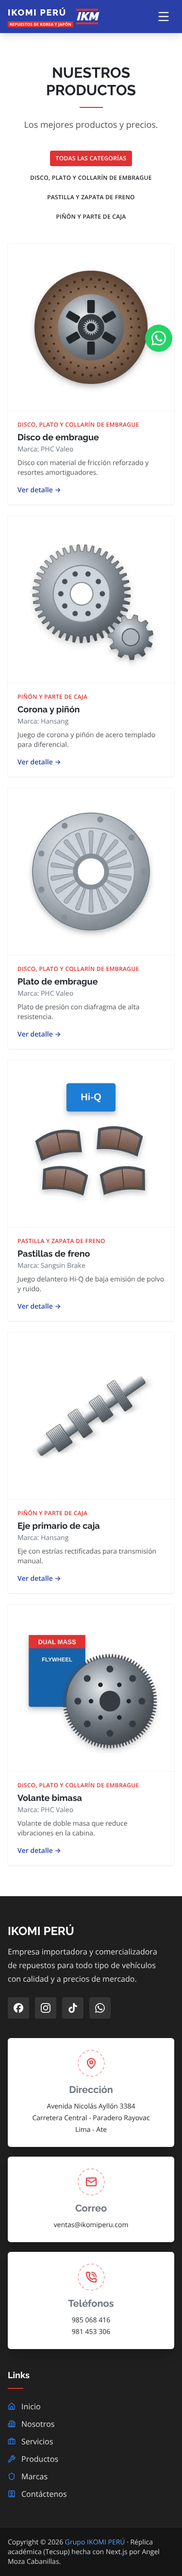
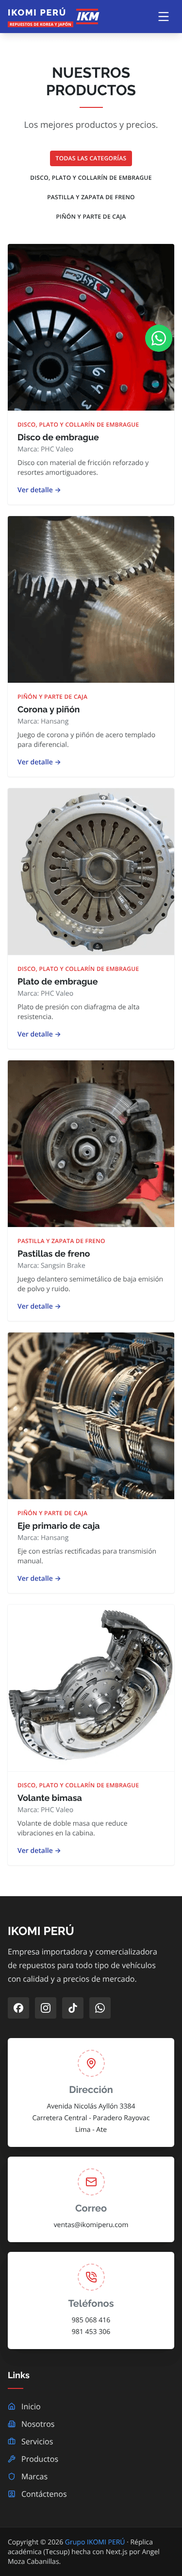
feat: fotos reales con licencia libre y creditos de imagenes

diff --git a/data/productos.ts b/data/productos.ts
@@ -18,6 +18,7 @@ export type Producto = {
   resumen: string; // texto corto para la tarjeta
   descripcion: string;
   compatibilidad: string[];
+  credito?: string; // atribución requerida por la licencia de la foto (CC BY-SA)
 };
 
 export const productos: Producto[] = [
@@ -26,7 +27,7 @@ export const productos: Producto[] = [
     nombre: "Disco de embrague",
     categoria: "Disco, plato y collarín de embrague",
     marca: "PHC Valeo",
-    imagen: "/images/productos/disco-de-embrague.png",
+    imagen: "/images/productos/disco-de-embrague.jpg",
     resumen: "Disco con material de fricción reforzado y resortes amortiguadores.",
     descripcion:
       "Disco de embrague de fricción orgánica reforzada para camiones de carga media y pesada. Sus resortes de torsión absorben las vibraciones del motor y protegen la caja de cambios en arranques con carga.",
@@ -37,7 +38,7 @@ export const productos: Producto[] = [
     nombre: "Corona y piñón",
     categoria: "Piñón y parte de caja",
     marca: "Hansang",
-    imagen: "/images/productos/corona-y-pinon.png",
+    imagen: "/images/productos/corona-y-pinon.jpg",
     resumen: "Juego de corona y piñón de acero templado para diferencial.",
     descripcion:
       "Juego de corona y piñón fabricado en acero aleado con tratamiento térmico, diseñado para soportar el torque del diferencial trasero en rutas de sierra y carga continua.",
@@ -48,21 +49,22 @@ export const productos: Producto[] = [
     nombre: "Plato de embrague",
     categoria: "Disco, plato y collarín de embrague",
     marca: "PHC Valeo",
-    imagen: "/images/productos/plato-de-embrague.png",
+    imagen: "/images/productos/plato-de-embrague.jpg",
     resumen: "Plato de presión con diafragma de alta resistencia.",
     descripcion:
       "Plato de presión con diafragma de acero que mantiene una fuerza de sujeción constante durante toda su vida útil, para cambios suaves y menos desgaste del disco.",
     compatibilidad: ["Kia K2700", "Hyundai H100", "Nissan Cabstar"],
+    credito: "Foto: Panoha, Wikimedia Commons (CC BY-SA 3.0)",
   },
   {
     slug: "pastillas-de-freno",
     nombre: "Pastillas de freno",
     categoria: "Pastilla y zapata de freno",
     marca: "Sangsin Brake",
-    imagen: "/images/productos/pastillas-de-freno.png",
-    resumen: "Juego delantero Hi-Q de baja emisión de polvo y ruido.",
+    imagen: "/images/productos/pastillas-de-freno.jpg",
+    resumen: "Juego delantero semimetálico de baja emisión de polvo y ruido.",
     descripcion:
-      "Pastillas de freno Hi-Q de compuesto semimetálico, con buena respuesta en frío y en caliente. Fabricadas por un proveedor OEM de Hyundai y Kia.",
+      "Pastillas de freno de compuesto semimetálico, con buena respuesta en frío y en caliente. Fabricadas por un proveedor OEM de Hyundai y Kia.",
     compatibilidad: ["Hyundai H1", "Kia Sorento", "Hyundai Porter"],
   },
   {
@@ -70,7 +72,7 @@ export const productos: Producto[] = [
     nombre: "Eje primario de caja",
     categoria: "Piñón y parte de caja",
     marca: "Hansang",
-    imagen: "/images/productos/eje-de-caja.png",
+    imagen: "/images/productos/eje-de-caja.jpg",
     resumen: "Eje con estrías rectificadas para transmisión manual.",
     descripcion:
       "Eje primario de caja de cambios con estrías rectificadas y piñones integrados, mecanizado con tolerancias originales para un acople preciso con el disco de embrague.",
@@ -81,11 +83,12 @@ export const productos: Producto[] = [
     nombre: "Volante bimasa",
     categoria: "Disco, plato y collarín de embrague",
     marca: "PHC Valeo",
-    imagen: "/images/productos/volante-bimasa.png",
+    imagen: "/images/productos/volante-bimasa.jpg",
     resumen: "Volante de doble masa que reduce vibraciones en la cabina.",
     descripcion:
       "Kit de volante bimasa (Dual Mass Flywheel) que separa la masa del motor y de la transmisión para filtrar vibraciones, mejorar el confort y prolongar la vida de la caja.",
     compatibilidad: ["Hyundai Starex", "Kia Bongo", "Hyundai County"],
+    credito: "Foto: Cschirp, Wikimedia Commons (CC BY-SA 3.0)",
   },
 ];
 

diff --git a/app/productos/[slug]/page.tsx b/app/productos/[slug]/page.tsx
@@ -45,7 +45,7 @@ export default async function ProductoDetallePage({ params }: PageProps<"/produc
           </nav>
 
           <div className="grid items-center gap-10 md:grid-cols-2">
-            <div className="rounded bg-white p-6 shadow ring-1 ring-gray-100">
+            <figure className="overflow-hidden rounded shadow-lg ring-1 ring-gray-100">
               <Image
                 src={producto.imagen}
                 alt={`${producto.nombre} marca ${producto.marca}`}
@@ -53,9 +53,10 @@ export default async function ProductoDetallePage({ params }: PageProps<"/produc
                 height={800}
                 preload
                 sizes="(min-width: 768px) 50vw, 100vw"
-                className="h-auto w-full"
+                className="aspect-square h-auto w-full object-cover"
               />
-            </div>
+              {producto.credito && <figcaption className="bg-surface px-3 py-1.5 text-xs text-muted">{producto.credito}</figcaption>}
+            </figure>
             <div>
               <p className="text-sm font-semibold uppercase tracking-wide text-accent">{producto.categoria}</p>
               <h1 className="mt-2 text-3xl font-bold md:text-4xl">{producto.nombre}</h1>

diff --git a/app/nosotros/page.tsx b/app/nosotros/page.tsx
@@ -9,10 +9,10 @@ export const metadata: Metadata = {
 };
 
 const galeria = [
-  { titulo: "Equipo", src: "/images/nosotros/equipo.jpg", alt: "Equipo de trabajo de IKOMI PERÚ junto a camiones de distintas marcas" },
-  { titulo: "Almacén", src: "/images/nosotros/almacen.jpg", alt: "Pasillo del almacén con estantes llenos de repuestos" },
-  { titulo: "Tienda", src: "/images/nosotros/tienda.jpg", alt: "Fachada de la tienda IKOMI PERÚ con vitrinas de repuestos" },
-  { titulo: "Empresa", src: "/images/nosotros/empresa.jpg", alt: "Edificio principal de la empresa IKOMI PERÚ" },
+  { titulo: "Equipo", src: "/images/nosotros/equipo.jpg", alt: "Mecánico revisando el motor de un vehículo en el taller" },
+  { titulo: "Almacén", src: "/images/nosotros/almacen.jpg", alt: "Pasillo del almacén con estantes llenos de cajas de repuestos" },
+  { titulo: "Tienda", src: "/images/nosotros/tienda.jpg", alt: "Estantes de la tienda con productos y repuestos en exhibición" },
+  { titulo: "Empresa", src: "/images/nosotros/empresa.jpg", alt: "Almacén central con mercadería lista para despacho" },
 ];
 
 export default function NosotrosPage() {

diff --git a/components/Hero.tsx b/components/Hero.tsx
@@ -17,12 +17,14 @@ export default function Hero({ titulo, resaltado, subtitulo, imagen = "/images/h
       {/* preload (antes "priority"): es la imagen más grande visible al cargar, se descarga primero (mejor LCP) */}
       <Image
         src={imagen}
-        alt="Repuestos para camiones: discos de embrague, frenos, filtros y piñones"
+        alt="Repuestos metálicos para camiones: engranajes, piñones y piezas de motor"
         fill
         preload
         sizes="100vw"
-        className="-z-10 object-cover"
+        className="-z-20 object-cover"
       />
+      {/* Capa oscura: la foto es clara (piezas plateadas) y el texto blanco necesita contraste */}
+      <div className="absolute inset-0 -z-10 bg-gradient-to-l from-black/80 via-black/60 to-black/40" aria-hidden="true" />
       <div className="mx-auto w-full max-w-6xl px-4">
         <div className={`ml-auto max-w-2xl animate-fade-up text-white ${compacto ? "text-left md:text-right" : "text-right"}`}>
           {resaltado && <p className="font-heading text-3xl font-extrabold md:text-5xl">{resaltado}</p>}

diff --git a/components/ProductCard.tsx b/components/ProductCard.tsx
@@ -17,14 +17,14 @@ export default function ProductCard({ producto, mostrarMarca = true }: Props) {
       href={`/productos/${producto.slug}`}
       className="group flex h-full flex-col overflow-hidden rounded bg-white shadow-sm ring-1 ring-gray-100 transition duration-300 hover:-translate-y-2 hover:shadow-xl focus-visible:-translate-y-2"
     >
-      <div className="overflow-hidden bg-white p-4">
+      <div className="aspect-square overflow-hidden bg-surface">
         <Image
           src={producto.imagen}
           alt={`${producto.nombre} ${producto.marca} para camión`}
           width={800}
           height={800}
           sizes="(min-width: 1024px) 33vw, (min-width: 640px) 50vw, 100vw"
-          className="h-auto w-full transition duration-500 group-hover:scale-110"
+          className="h-full w-full object-cover transition duration-500 group-hover:scale-110"
         />
       </div>
       <div className="flex flex-1 flex-col border-t border-gray-100 p-5">

diff --git a/CREDITOS_IMAGENES.md b/CREDITOS_IMAGENES.md
@@ -1,0 +1,21 @@
+# Créditos de imágenes
+
+Todas las fotos son de bancos con licencia libre. Se recortaron y optimizaron (JPG) para cada sección del sitio.
+
+| Archivo | Fuente | Licencia |
+|---|---|---|
+| `public/images/hero.jpg` | [Unsplash — photo-1606337321936-02d1b1a4d5ef](https://images.unsplash.com/photo-1606337321936-02d1b1a4d5ef) | [Unsplash License](https://unsplash.com/license) |
+| `public/images/nosotros/equipo.jpg` | [Unsplash — photo-1504222490345-c075b6008014](https://images.unsplash.com/photo-1504222490345-c075b6008014) | Unsplash License |
+| `public/images/nosotros/almacen.jpg` | [Unsplash — photo-1644079446600-219068676743](https://images.unsplash.com/photo-1644079446600-219068676743) | Unsplash License |
+| `public/images/nosotros/tienda.jpg` | [Unsplash — photo-1601598704991-eef6114775e0](https://images.unsplash.com/photo-1601598704991-eef6114775e0) | Unsplash License |
+| `public/images/nosotros/empresa.jpg` | [Unsplash — photo-1586528116311-ad8dd3c8310d](https://images.unsplash.com/photo-1586528116311-ad8dd3c8310d) | Unsplash License |
+| `public/images/productos/disco-de-embrague.jpg` | [Unsplash — photo-1603925246538-193f96ec9acd](https://images.unsplash.com/photo-1603925246538-193f96ec9acd) | Unsplash License |
+| `public/images/productos/pastillas-de-freno.jpg` | [Unsplash — photo-1609682932589-5ef2bd85980d](https://images.unsplash.com/photo-1609682932589-5ef2bd85980d) | Unsplash License |
+| `public/images/productos/corona-y-pinon.jpg` | [Unsplash — photo-1662332510287-d0163ac55a1f](https://images.unsplash.com/photo-1662332510287-d0163ac55a1f) | Unsplash License |
+| `public/images/productos/eje-de-caja.jpg` | [Unsplash — photo-1711199694531-e982a79ea381](https://images.unsplash.com/photo-1711199694531-e982a79ea381) | Unsplash License |
+| `public/images/productos/plato-de-embrague.jpg` | [Wikimedia Commons — "Pull type clutch.jpg"](https://commons.wikimedia.org/wiki/File:Pull_type_clutch.jpg), autor: **Panoha** | [CC BY-SA 3.0](https://creativecommons.org/licenses/by-sa/3.0/) |
+| `public/images/productos/volante-bimasa.jpg` | [Wikimedia Commons — "Zweimassenschwungrad und kupplung aufgeschnitten.jpg"](https://commons.wikimedia.org/wiki/File:Zweimassenschwungrad_und_kupplung_aufgeschnitten.jpg), autor: **Cschirp** | [CC BY-SA 3.0](https://creativecommons.org/licenses/by-sa/3.0/) |
+
+Las dos fotos con licencia CC BY-SA muestran además su crédito debajo de la imagen en la página de detalle del producto (campo `credito` en `data/productos.ts`).
+
+> Los nombres y descripciones de marcas se representan solo como texto; no se usan logotipos registrados.

diff --git a/README.md b/README.md
@@ -4,7 +4,7 @@ Réplica académica del sitio web de **IKOMI PERÚ S.R.L.** (importadora de repu
 
 > **Alumno:** Angel Moza Cabanillas · **Curso:** Desarrollo de Aplicaciones Web Avanzado (Tecsup) · **Docente:** Jorge Ventura Gonzales
 
-- 🌐 **Demo en Render:** `https://ikomi-next-moza.onrender.com` *(actualizar con la URL real después del despliegue)*
+- 🌐 **Demo en Render:** https://ikomi-next-moza.onrender.com
 - 📄 Decisiones técnicas: [DECISIONES.md](./DECISIONES.md)
 - 🤖 Bitácora de uso de IA: [BITACORA_IA.md](./BITACORA_IA.md)
 - 📸 Capturas (build, Network y responsive): [evidencias/](./evidencias)
@@ -161,7 +161,7 @@ graph TD
 
 ## Imágenes
 
-Las imágenes de `public/images/` son **ilustraciones provisionales** con la misma proporción que las del sitio original. Para usar las fotos reales de IKOMI basta con reemplazar cada archivo **con el mismo nombre** (por ejemplo `public/images/productos/disco-de-embrague.png`). No hay que tocar el código.
+Las fotos son reales y vienen de bancos con licencia libre (Unsplash y Wikimedia Commons). Se recortaron al tamaño de cada sección: productos 800×800, Nosotros 640×500 y hero 1920×900. Las fuentes y licencias de cada una están en [CREDITOS_IMAGENES.md](./CREDITOS_IMAGENES.md).
 
 ---
 
